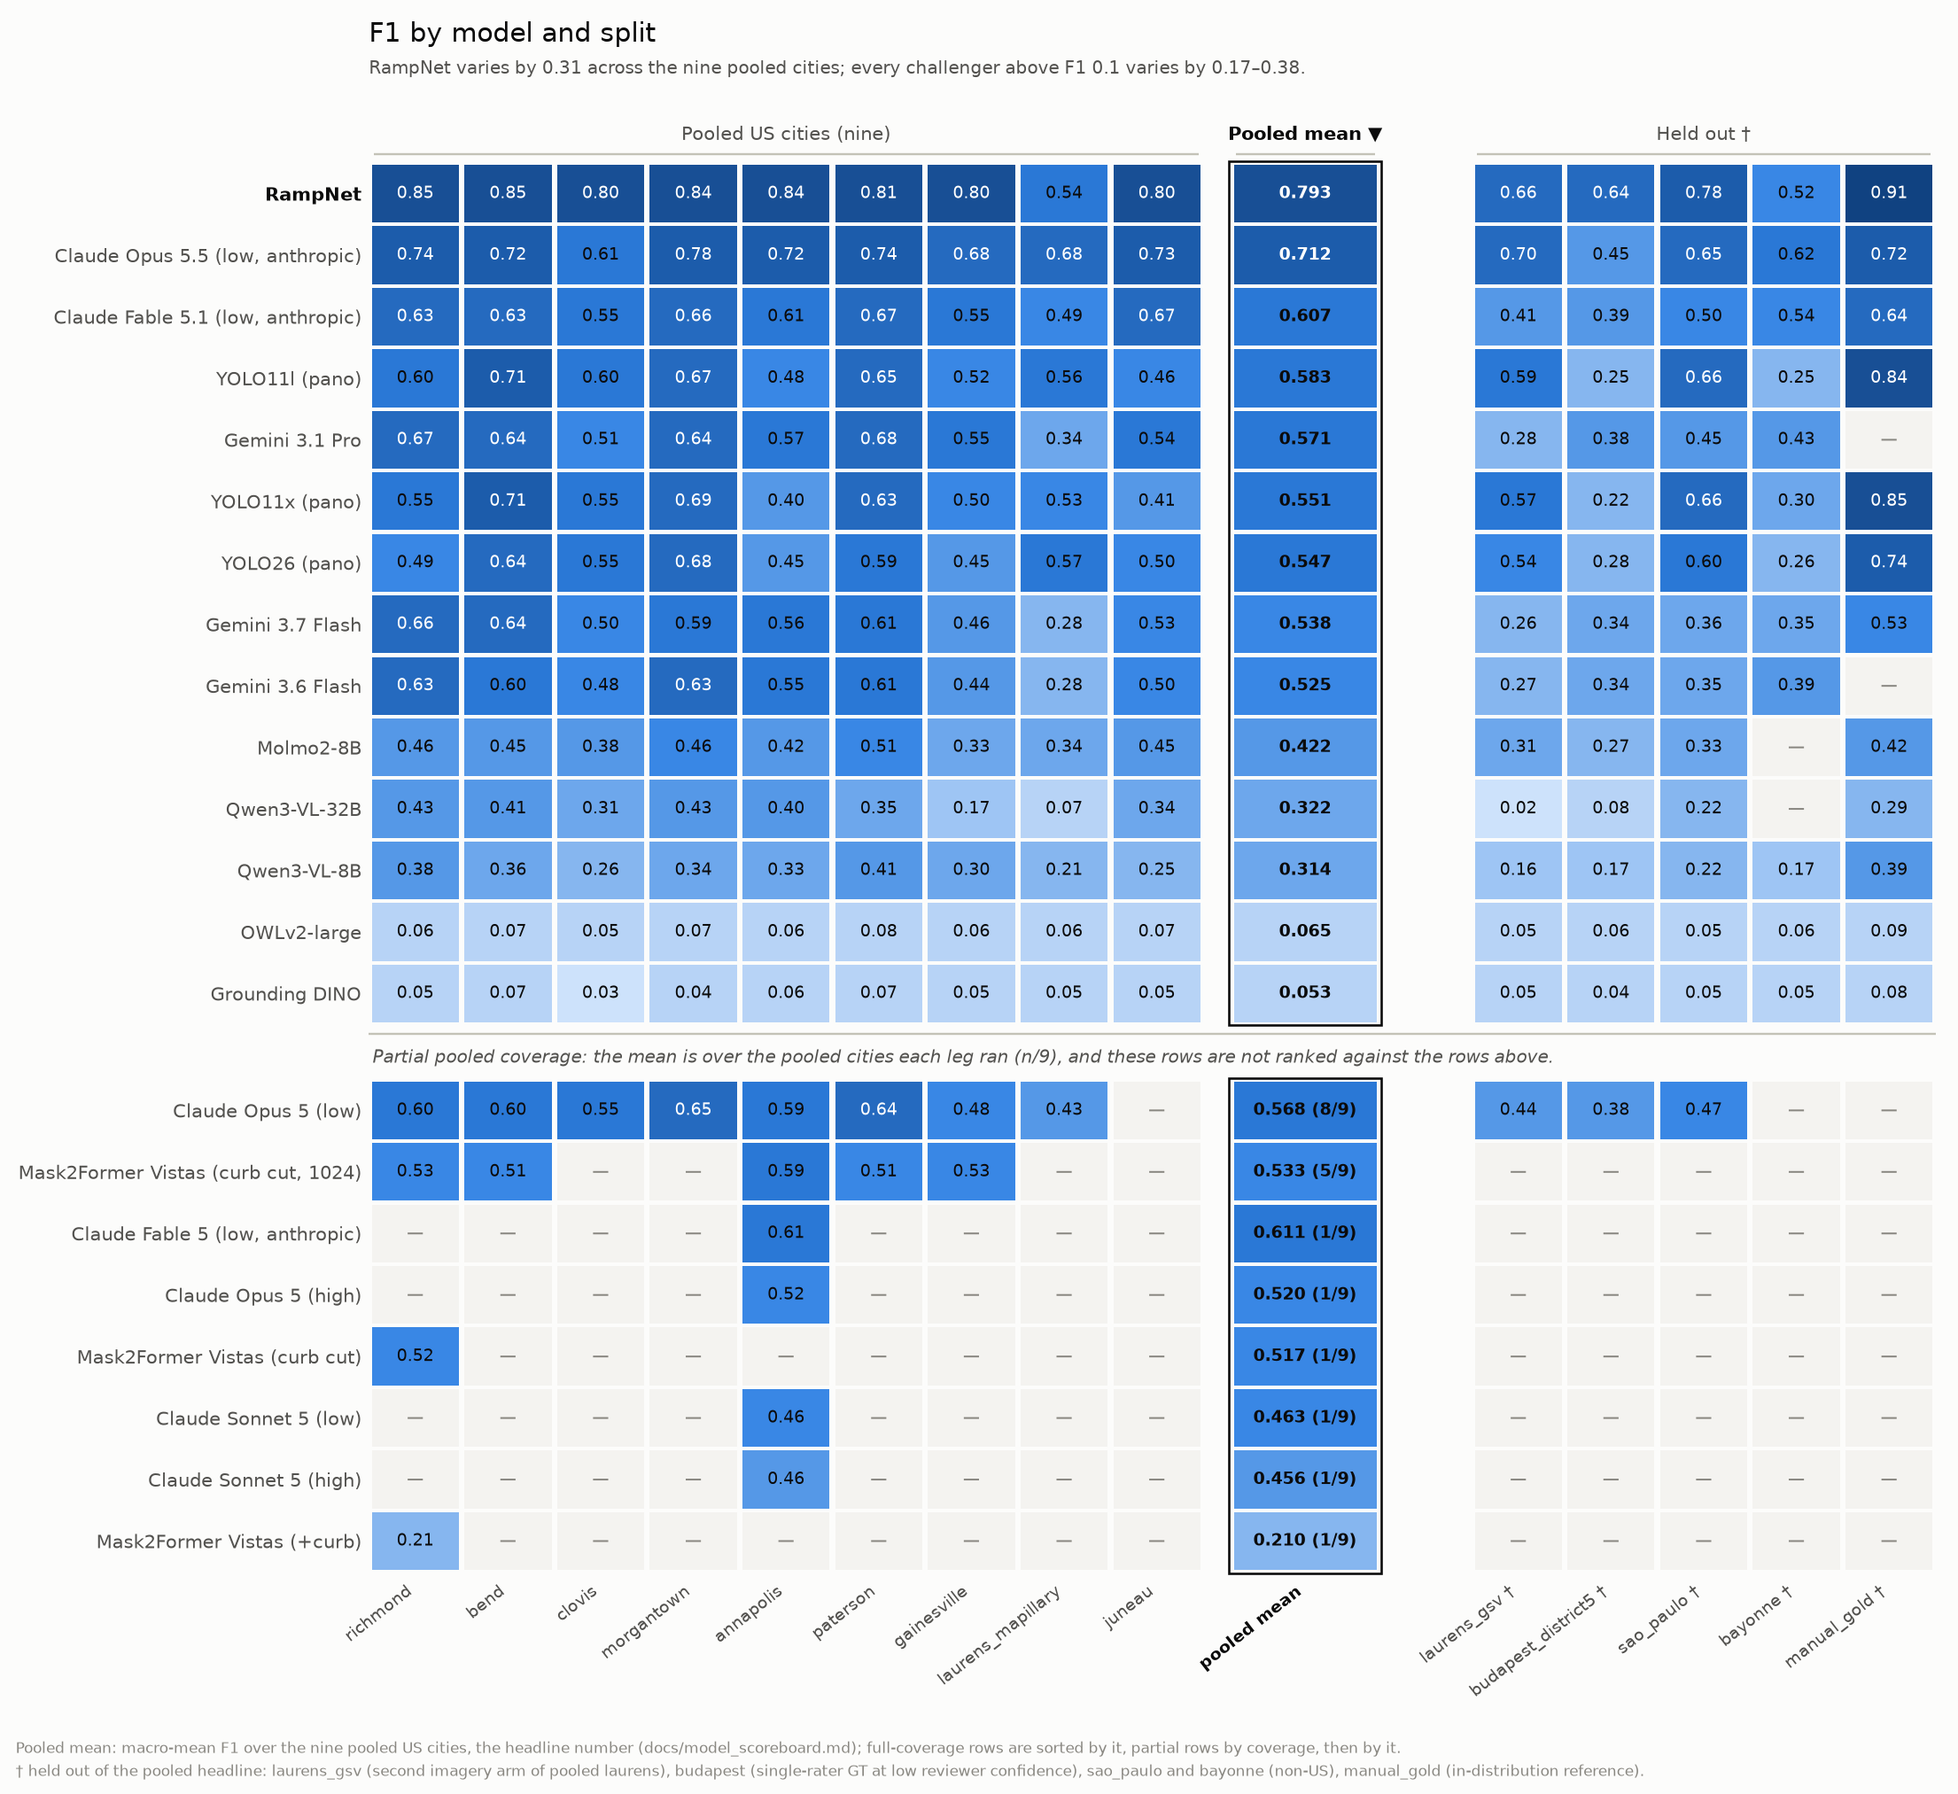
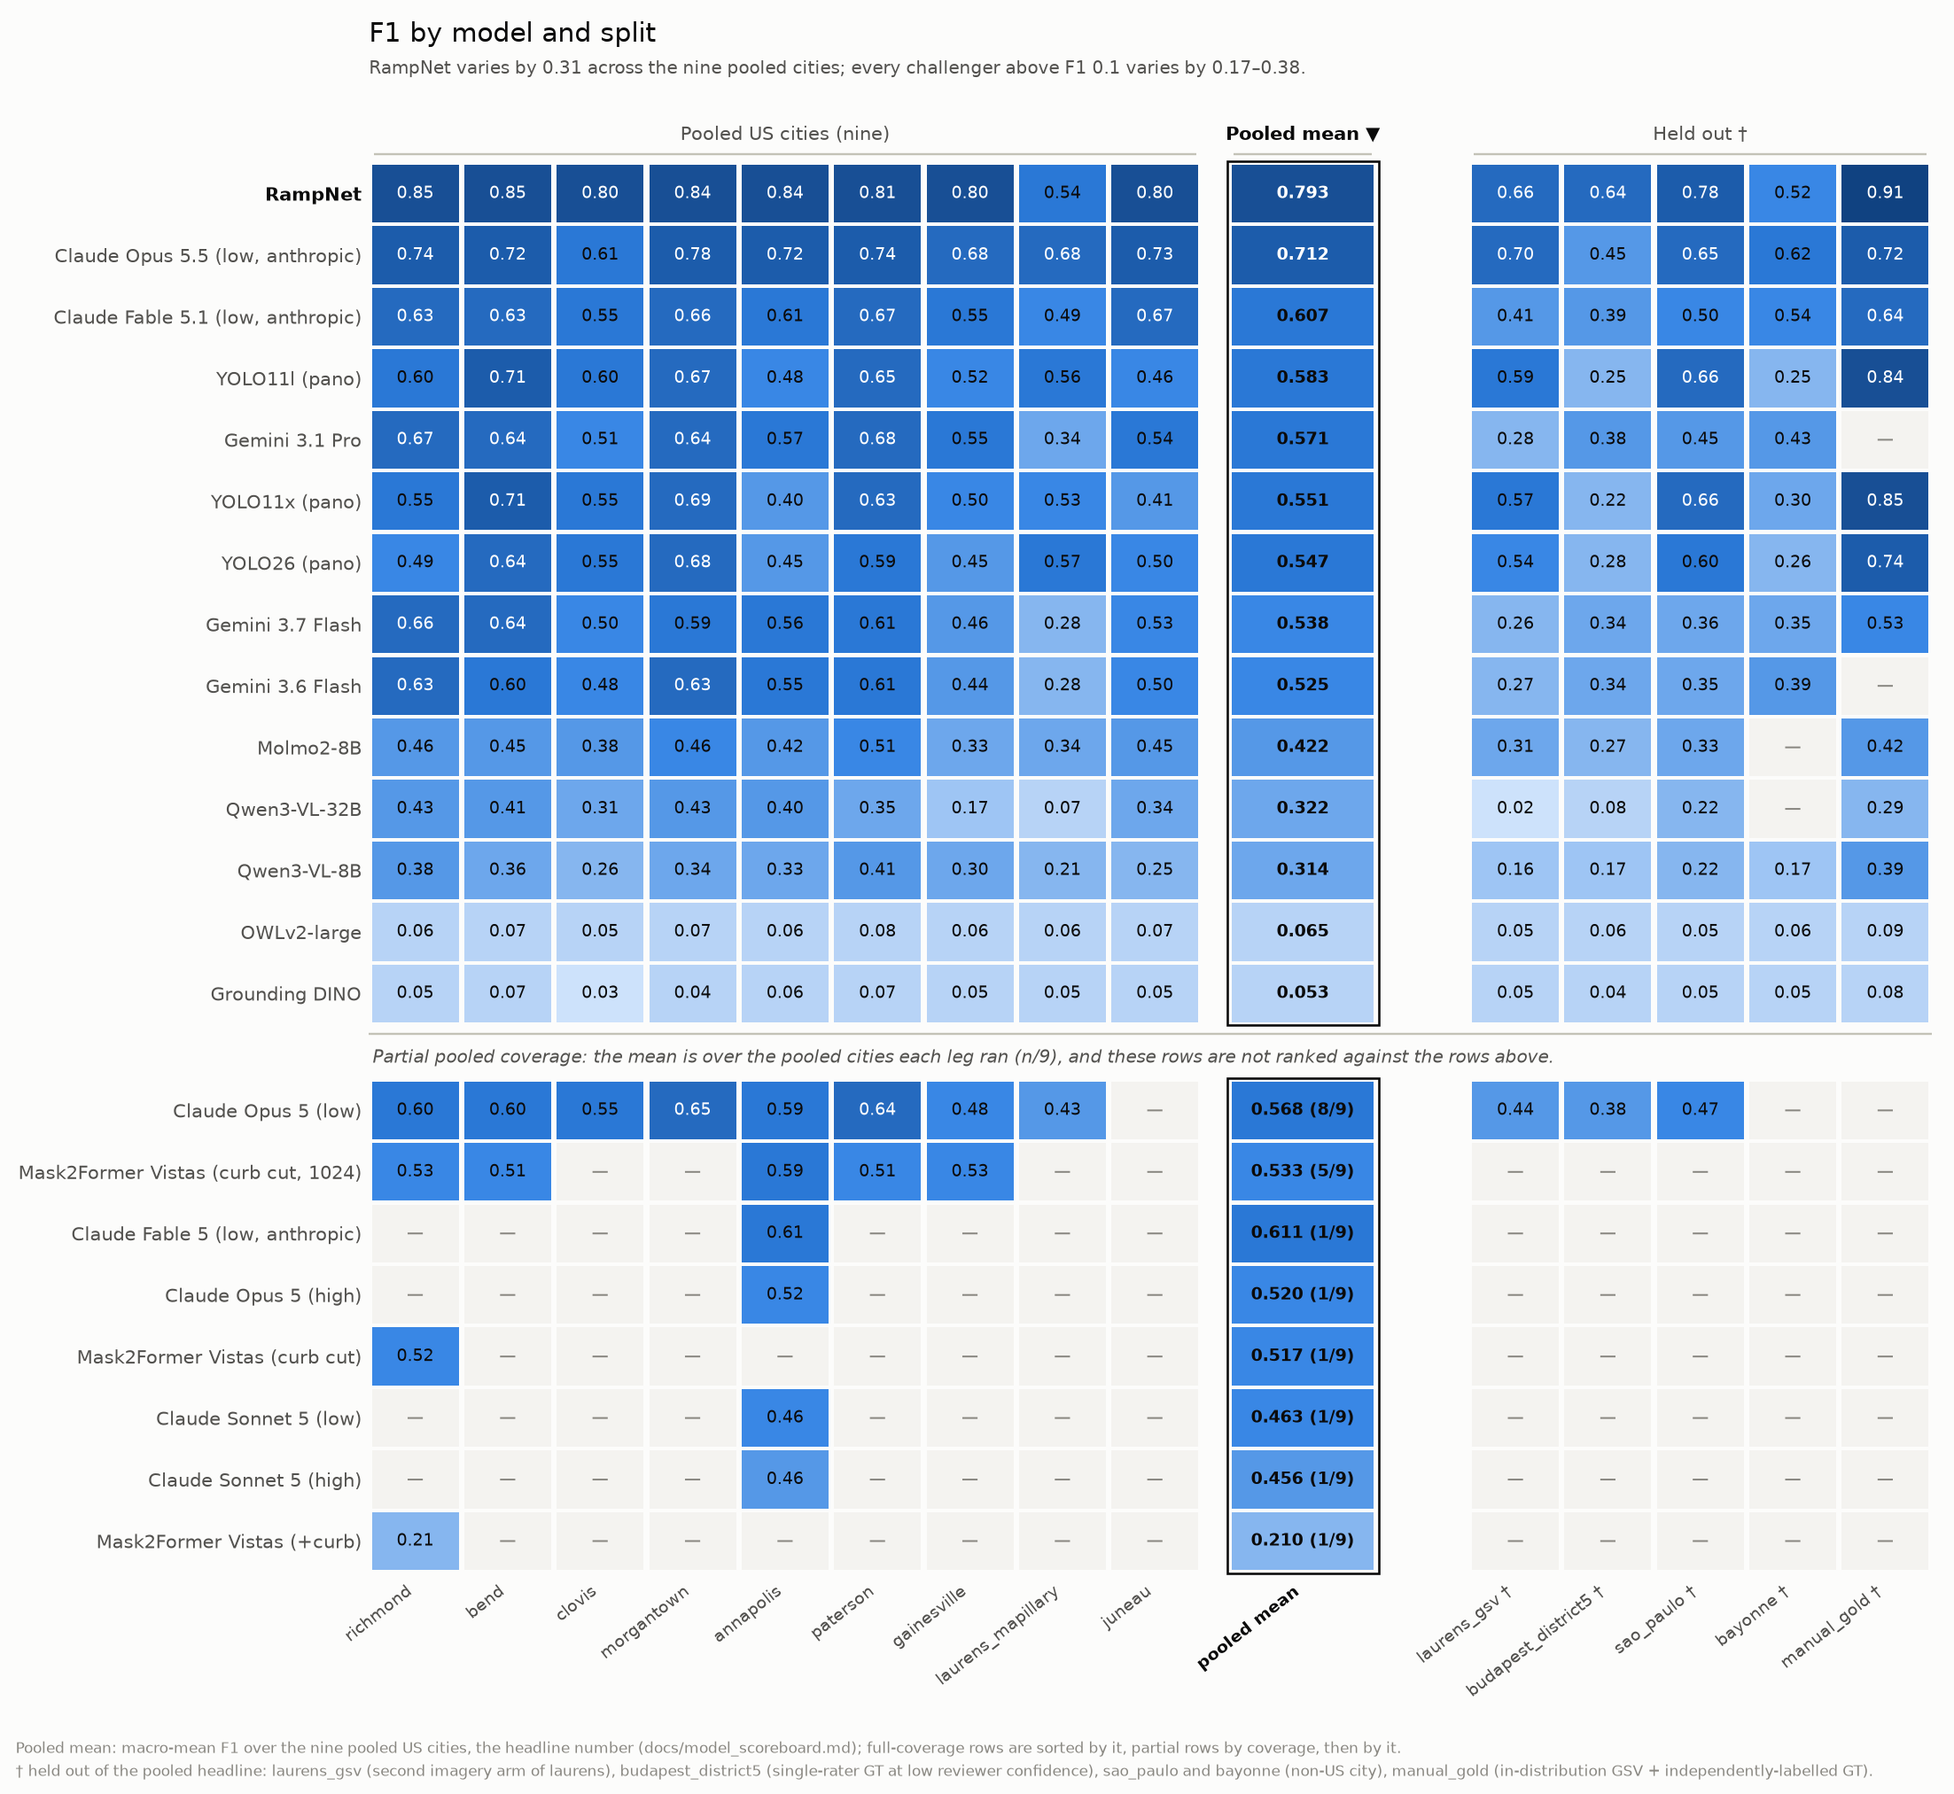
Heatmap review fixes: Gemini cache was desktop-local; footer from held_out
Fixes for the PR 262 review (5592994266):

- model_scoreboard.md, "What is missing": the Gemini manual_gold cache was
  desktop-local. model_comparison.md (manual_gold "Cost and runtime", b148f71)
  says both Gemini models ran from a desktop against Vertex; only the GPU legs
  used ckpt. The klone-scratch guess is removed. Both desktops were searched.
- Prose example 0.533 (5/9) -> 0.568 (8/9), a leg that stays partial.
- Tests: dropped the tautological mean_f1 == f1 check and the 0.793 pin
  (RampNet's mean is now checked against the board's best full mean). Added a
  synthetic-board test: a partial leg with a higher mean but lower coverage
  sorts below a wider one, a 0/9 leg (f1 None) sorts last, a tie in the full
  group keeps board order, and fig_by_split renders the board and a
  partial-only board (Agg, tmp_path). Added a held-out footer test.
- by_split_rows checks coverage by count (len(pooled_splits)), not the "n/N"
  string.
- Figure width scales with the column count (3.0 + 0.59 in per column unit;
  12.97 in at fourteen splits, as before).
- The "not ranked against the rows above" clause appears only when there is a
  full-coverage group.
- The dagger footer is generated from result["held_out"] (held_out_footer), so
  it names budapest_district5.
- [-0.0, width] -> [0.0, width].

Only scoreboard_by_split.png changes on regeneration (the footer text).

diff --git a/scripts/analysis/scoreboard_figures.py b/scripts/analysis/scoreboard_figures.py
@@ -25,6 +25,7 @@ discharged the way ``plot_operating_point.py`` discharges it: every plotted numb
 also in a table, in ``docs/model_scoreboard.md`` and ``analysis_out/scoreboard.json``.
 """
 import os
+import re
 
 # Palette: validated categorical slot 1, the sequential blue ramp, and the neutral inks
 # (references/palette.md). Same values plot_operating_point.py uses, so the two figures
@@ -318,7 +319,7 @@ def by_split_rows(result):
         cells = per[m["model"]]
         f1s = [cells[s]["f1"] for s in pooled if cells.get(s)]
         n_run = len(f1s)
-        assert m["coverage"] == f"{n_run}/{len(pooled)}", (m["model"], m["coverage"], n_run)
+        assert len(m["pooled_splits"]) == n_run, (m["model"], m["pooled_splits"], n_run)
         assert m["complete"] == (n_run == len(pooled)), m["model"]
         if f1s:
             recomputed = sum(f1s) / n_run
@@ -330,6 +331,34 @@ def by_split_rows(result):
     full.sort(key=lambda r: -r[1])
     partial.sort(key=lambda r: (r[1] is None, -r[2], -(r[1] or 0.0)))
     return full, partial
+
+
+def held_out_footer(result, held):
+    """The by-split figure's dagger footnote, built from ``result["held_out"]``.
+
+    Each reason is cut to its first clause (up to the first comma, parenthesis or dash),
+    and splits that share a short reason are named together, so the footnote follows the
+    board's own split names and reasons rather than a hand-typed copy of them.
+
+    Example::
+
+        held_out_footer({"held_out": {"sao_paulo": "non-US city -- ...",
+                                      "bayonne": "non-US city -- ..."}},
+                        ["sao_paulo", "bayonne"])
+        # '† held out of the pooled headline: sao_paulo and bayonne (non-US city).'
+    """
+    groups = {}
+    for split in held:
+        reason = result["held_out"].get(split, "")
+        short = re.split(r",| \(| — | -- ", reason, maxsplit=1)[0].strip()
+        groups.setdefault(short, []).append(split)
+    def names(splits):
+        return splits[0] if len(splits) == 1 else \
+            ", ".join(splits[:-1]) + " and " + splits[-1]
+
+    parts = [names(splits) + (f" ({short})" if short else "")
+             for short, splits in groups.items()]
+    return "† held out of the pooled headline: " + ", ".join(parts) + "."
 
 
 def fig_by_split(result, path, plt):
@@ -348,7 +377,7 @@ def fig_by_split(result, path, plt):
     n_pool = len(pooled)
 
     # Columns, in data units: cities, a narrow gap, the wider aggregate column (it has to
-    # hold "0.533 (5/9)"), the gutter, then the held-out splits.
+    # hold e.g. "0.568 (8/9)"), the gutter, then the held-out splits.
     agg_gap, agg_w, gutter = 0.3, 1.6, 1.0
     col_x = {s: float(i) for i, s in enumerate(pooled)}
     agg_x = n_pool + agg_gap
@@ -364,9 +393,12 @@ def fig_by_split(result, path, plt):
     placed += [(r, sep_y + sep + i) for i, r in enumerate(partial)]
     height = len(full) + (sep + len(partial) if partial else 0.0)
 
-    # Height tracks the row count so adding a leg does not silently squash the cells.
+    # Height tracks the row count and width the column count, so adding a leg or a split
+    # does not silently squash the cells. The constant terms hold the row labels, titles
+    # and footer; at fourteen splits this is the 13-inch width the figure was drawn at.
     fig_h = 1.9 + 0.42 * (height + head)
-    fig, ax = plt.subplots(figsize=(13.0, fig_h))
+    fig_w = 3.0 + 0.59 * width
+    fig, ax = plt.subplots(figsize=(fig_w, fig_h))
     fig.patch.set_facecolor(SURFACE)
     ax.set_facecolor(SURFACE)
 
@@ -417,11 +449,14 @@ def fig_by_split(result, path, plt):
         group(held_x0, width, "Held out †", color=INK_SECONDARY)
 
     if partial:
-        ax.plot([-0.0, width], [sep_y + 0.16, sep_y + 0.16], color=BASELINE, lw=1.0,
+        ax.plot([0.0, width], [sep_y + 0.16, sep_y + 0.16], color=BASELINE, lw=1.0,
                 zorder=3)
+        # The "rows above" clause only makes sense when there are rows above.
+        not_ranked = (", and these rows are not ranked against the rows above."
+                      if full else ".")
         ax.text(0.04, sep_y + sep / 2 + 0.1,
                 "Partial pooled coverage: the mean is over the pooled cities each leg ran "
-                f"(n/{n_pool}), and these rows are not ranked against the rows above.",
+                f"(n/{n_pool}){not_ranked}",
                 ha="left", va="center", fontsize=8.4, color=INK_SECONDARY,
                 fontstyle="italic", zorder=3)
 
@@ -472,11 +507,9 @@ def fig_by_split(result, path, plt):
              "headline number (docs/model_scoreboard.md); full-coverage rows are sorted by it, "
              "partial rows by coverage, then by it.",
              fontsize=7.4, color=INK_MUTED, ha="left", va="bottom")
-    fig.text(0.008, 0.008,
-             "† held out of the pooled headline: laurens_gsv (second imagery arm of pooled "
-             "laurens), budapest (single-rater GT at low reviewer confidence), sao_paulo "
-             "and bayonne (non-US), manual_gold (in-distribution reference).",
-             fontsize=7.4, color=INK_MUTED, ha="left", va="bottom")
+    if held:
+        fig.text(0.008, 0.008, held_out_footer(result, held),
+                 fontsize=7.4, color=INK_MUTED, ha="left", va="bottom")
     fig.tight_layout(rect=(0, 0.008 + 2.4 * line, 1, 1))
     fig.savefig(path, dpi=170, facecolor=fig.get_facecolor())
     plt.close(fig)

diff --git a/tests/test_scoreboard.py b/tests/test_scoreboard.py
@@ -1256,18 +1256,97 @@ def test_by_split_heatmap_rows_sort_by_pooled_mean_in_two_groups():
     assert all(m["complete"] and n == n_pool for m, _, n in full)
     assert all(not m["complete"] and n < n_pool for m, _, n in partial)
 
-    # The aggregate IS the headline number, and each group is sorted by it.
-    for m, mean_f1, _ in full + partial:
-        assert mean_f1 == m["f1"]
+    # The full group is sorted by its pooled mean.
     means = [v for _, v, _ in full]
     assert means == sorted(means, reverse=True)
     # The partial group sorts by coverage first, then by its mean within a coverage level.
     keys = [(n, v) for _, v, n in partial if v is not None]
     assert keys == sorted(keys, key=lambda k: (-k[0], -k[1]))
 
-    # RampNet leads by sorting, not by being pinned there.
+    # RampNet leads by sorting, not by being pinned there: its mean is the board's best.
     assert full[0][0]["model"] == "rampnet"
-    assert round(full[0][1], 3) == 0.793
+    assert full[0][1] == max(m["f1"] for m in committed["models"] if m["complete"])
+
+
+def _synthetic_board():
+    """A three-city board, one held-out split, built to exercise every ordering rule.
+
+    * ``partial-high``: one city at 0.90 -- a higher mean than ``partial-wide`` but lower
+      coverage, so it must sort below it.
+    * ``none``: ran no pooled city (its only cell is held out), so its F1 is None and it
+      sorts last.
+    * ``tie-a`` / ``tie-b``: equal pooled means in the full group; the board's order holds.
+    """
+    pooled = ["a", "b", "c"]
+
+    def cell(f1):
+        return {"f1": f1}
+
+    per_split = {
+        "best": {"a": cell(0.9), "b": cell(0.8), "c": cell(0.7), "h": cell(0.6)},
+        "tie-a": {"a": cell(0.5), "b": cell(0.5), "c": cell(0.5)},
+        "tie-b": {"a": cell(0.4), "b": cell(0.5), "c": cell(0.6)},
+        "partial-high": {"a": cell(0.9)},
+        "partial-wide": {"a": cell(0.3), "b": cell(0.4)},
+        "none": {"h": cell(0.2)},
+    }
+    models = []
+    for name, cells in per_split.items():
+        f1s = [cells[s]["f1"] for s in pooled if s in cells]
+        models.append({
+            "model": name, "display": name,
+            "coverage": f"{len(f1s)}/{len(pooled)}",
+            "complete": len(f1s) == len(pooled),
+            "pooled_splits": [s for s in pooled if s in cells],
+            "f1": sum(f1s) / len(f1s) if f1s else None,
+            "f1_min": min(f1s) if f1s else None,
+            "f1_max": max(f1s) if f1s else None,
+        })
+    return {
+        "pooled_splits": pooled,
+        "all_splits": pooled + ["h"],
+        "held_out": {"h": "a held-out split, for a reason (with detail)"},
+        "models": models,
+        "per_split": per_split,
+    }
+
+
+def test_by_split_rows_orders_a_synthetic_board_and_the_figure_renders_it(tmp_path):
+    """Coverage beats mean in the partial group, None sorts last, ties keep board order."""
+    from scoreboard_figures import by_split_rows, fig_by_split, held_out_footer
+    plt = pytest.importorskip("matplotlib.pyplot")
+    import matplotlib
+    matplotlib.use("Agg")
+
+    synthetic = _synthetic_board()
+    full, partial = by_split_rows(synthetic)
+    assert [m["model"] for m, _, _ in full] == ["best", "tie-a", "tie-b"]
+    assert [m["model"] for m, _, _ in partial] == ["partial-wide", "partial-high", "none"]
+    assert [(n, v) for _, v, n in partial][-1] == (0, None)
+    assert held_out_footer(synthetic, ["h"]) == \
+        "† held out of the pooled headline: h (a held-out split)."
+
+    out = tmp_path / "by_split.png"
+    fig_by_split(synthetic, str(out), plt)
+    assert out.stat().st_size > 0
+
+    # A board with no full-coverage rows still renders (the caption drops "rows above").
+    partial_only = dict(synthetic)
+    partial_only["models"] = [m for m in synthetic["models"] if not m["complete"]]
+    fig_by_split(partial_only, str(out), plt)
+
+
+def test_held_out_footer_names_the_boards_own_splits():
+    """The footnote follows result["held_out"], so a renamed split cannot go stale."""
+    from scoreboard_figures import held_out_footer
+
+    with open(sb.DEFAULT_JSON, encoding="utf-8") as fh:
+        committed = json.load(fh)
+    held = [s for s in committed["all_splits"] if s not in committed["pooled_splits"]]
+    text = held_out_footer(committed, held)
+    for split in held:
+        assert split in text
+    assert "budapest_district5 (" in text
 
 
 def test_by_split_rows_rejects_an_aggregate_that_disagrees_with_its_cells():

diff --git a/docs/model_scoreboard.md b/docs/model_scoreboard.md
@@ -280,7 +280,7 @@ Its **Pooled mean** column, framed and set right of the pooled cities, is the sa
 F1 the headline quotes (read from the board, and checked against the mean of the cells
 beside it), and the rows are sorted by it. Legs that have not run every pooled city sit in
 a separate group below a labelled rule, sorted by how many pooled cities they ran and then by
-the mean over those cities, and that mean carries its coverage, e.g. `0.533 (5/9)`. So a
+the mean over those cities, and that mean carries its coverage, e.g. `0.568 (8/9)`. So a
 one-city leg is never ranked against a full-pool mean, or above a leg that ran eight cities,
 even when its single city puts it numerically above one.
 
@@ -518,8 +518,11 @@ Omissions are content, so they are named rather than left as blanks:
   lost.** On 2026-10-20 the cache keys were reconstructed (the same probe finds the richmond
   entries, so the method is sound) and searched for in every model cache on the Windows
   workstation, on makelab2 (`/homes/gws/jonf`), on klone (home, `/gscratch/makelab`,
-  `/gscratch/scrubbed`) and on Jon's Mac; none holds a single entry. The sweep used klone's
-  `ckpt` partition, so the likeliest home was purged scratch, but that is not established.
+  `/gscratch/scrubbed`) and on Jon's Mac; none holds a single entry. The cache was
+  desktop-local: `model_comparison.md`'s `manual_gold` "Cost and runtime" section (from
+  b148f71) says "Gemini needs no GPU at all — both models ran from a desktop against Vertex";
+  only the GPU legs used klone's `ckpt` queue. Both desktops, the Windows workstation and
+  Jon's Mac, are among the machines searched.
   **0.568 and 0.540 are therefore historical: they cannot be re-derived from a clean clone**,
   the only numbers in this comparison with that status. Not re-run, by decision (Jon,
   2026-10-20): Opus 5.5 and Gemini 3.7 Flash now cover `manual_gold`, a re-run of a preview id
